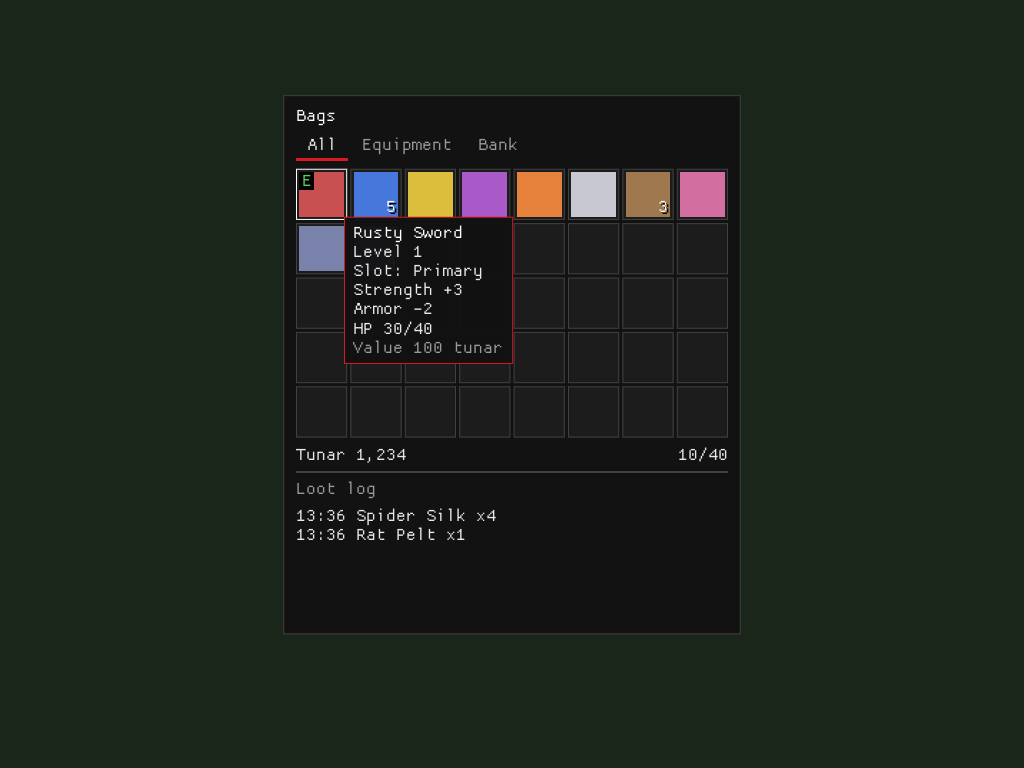
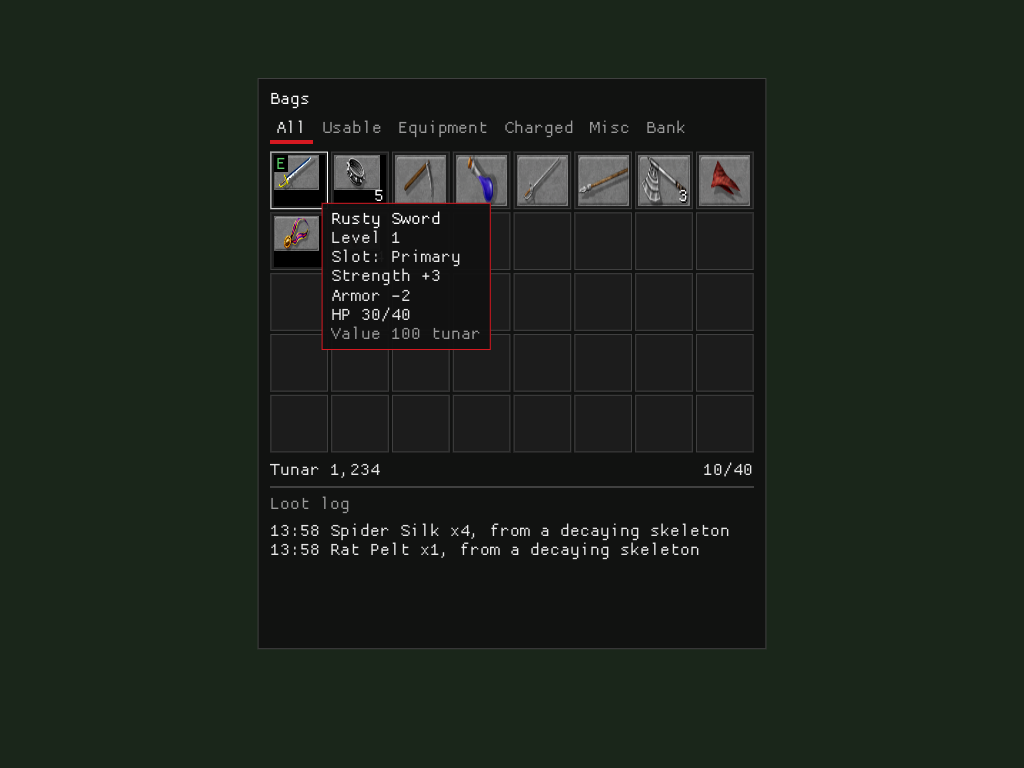
round 5 Part B: wider window and larger slots, real disc art test and captures, hashes

diff --git a/crates/eqoa/src/fork_ext/addons/bag_viewer_tests.rs b/crates/eqoa/src/fork_ext/addons/bag_viewer_tests.rs
@@ -227,10 +227,10 @@ impl Bv {
         let (rx, ry, _, _, k) = self.rect();
         (rx + x * k, ry + y * k)
     }
-    /// Centre of grid slot `n` (1-based) in window pixels (8 columns of 32 with a gap of 2, from (8, 46)).
+    /// Centre of grid slot `n` (1-based) in window pixels (8 columns of 36 with a gap of 2, from (8, 46)).
     fn slot(&self, n: usize) -> (f64, f64) {
         let (col, row) = ((n - 1) % 8, (n - 1) / 8);
-        self.at(8. + col as f64 * 34. + 16., 46. + row as f64 * 34. + 16.)
+        self.at(8. + col as f64 * 38. + 18., 46. + row as f64 * 38. + 18.)
     }
     fn point(&self, p: (f64, f64)) {
         super::super::pointer_api::position([p.0 as f32, p.1 as f32], true, self.win);
@@ -281,7 +281,7 @@ fn bv_red_near(pixels: &[u8], width: u32, p: (f64, f64), radius: i32) -> bool {
 fn bv_green_near(pixels: &[u8], width: u32, p: (f64, f64), radius: i32) -> bool {
     (-radius..=radius).any(|dy| (-radius..=radius).any(|dx| {
         let c = bv_px(pixels, width, p.0 + dx as f64, p.1 + dy as f64);
-        c[1] >= 150 && c[0] <= 130 && c[2] <= 140 && c[1] as i32 - c[0] as i32 >= 60
+        c[1] >= 90 && c[2] <= c[1] && c[1] as i32 - c[0] as i32 >= 40
     }))
 }
 fn bv_png(pixels: &[u8], size: (u32, u32), name: &str) {
@@ -539,10 +539,10 @@ fn round5b_the_window_follows_the_ui_scale_and_stays_on_screen() {
         sizes.push((win, w, k));
         bv.clean();
     }
-    // the window is as wide as the HUD frame makes it: 286 frame pixels at the frame's scale
+    // the window is as wide as the HUD frame makes it: 318 frame pixels at the frame's scale
     for (win, w, k) in &sizes {
         let (_, _, sx, _, _, _) = super::super::hud_layout::frame_metrics(*win);
-        assert!((k - sx as f64).abs() < 1e-3 && (w - 286. * sx as f64).abs() < 1e-2, "{win:?}");
+        assert!((k - sx as f64).abs() < 1e-3 && (w - 318. * sx as f64).abs() < 1e-2, "{win:?}");
     }
     assert!(sizes[1].1 > sizes[0].1 * 1.5, "a larger window gives a larger Bags window");
 }
@@ -563,7 +563,6 @@ fn round5b_picture_the_window_is_drawn_where_it_says_and_closed_it_is_not() {
     bv.point(bv.slot(1));
     let open = bv.frames(3);
     let px = rm_pixels(&bv.gpu, &open);
-    bv_png(&px, bv.win, "r5-bags-all.png");
     let w = bv.win.0;
     let (rx, ry, rw, rh, k) = bv.rect();
     // inside the panel (away from slots and text) the surface is dark and not the background; closed it is background
@@ -588,26 +587,24 @@ fn round5b_picture_the_window_is_drawn_where_it_says_and_closed_it_is_not() {
     bv.point((1., 1.));
     let calm = bv.frames(3);
     let calm_px = rm_pixels(&bv.gpu, &calm);
-    let left = bv.at(8., 46. + 16.);
+    let left = bv.at(8., 46. + 18.);
     assert!(bv_green_near(&calm_px, w, left, 3), "the worn marker's green at the sword's edge");
-    let ring = bv.at(8. + 68., 46. + 16.);
+    let ring = bv.at(8. + 76., 46. + 18.);
     assert!(!bv_green_near(&calm_px, w, ring, 1), "an unworn ring's edge is not green");
     let under = bv.at(8. + 14., 40.);
     assert!(bv_red_near(&calm_px, w, under, 2), "the All tab's red underline");
-    let log_row = bv.at(30., 46. + 5. * 34. + 5. + 38. + 6.);
+    let log_row = bv.at(30., 46. + 188. + 5. + 38. + 6.);
     assert!(bv_near(&calm_px, w, log_row, 40, [232, 232, 232, 255], 30), "a log line's text");
     // the Bank tab, nothing hovered
     let tab = bv.tab(6);
     bv.click(tab);
     bv.point((1., 1.));
-    let bank = bv.frames(3);
-    bv_png(&rm_pixels(&bv.gpu, &bank), bv.win, "r5-bags-bank.png");
+    bv.frames(3);
     // the log with entries, nothing hovered
     let all = bv.tab(1);
     bv.click(all);
     bv.point((1., 1.));
-    let log_pic = bv.frames(3);
-    bv_png(&rm_pixels(&bv.gpu, &log_pic), bv.win, "r5-bags-loot.png");
+    bv.frames(3);
     bv.clean();
 }
 
@@ -657,5 +654,91 @@ fn round5b_every_stack_has_the_tabs_the_games_item_page_gives_it_and_each_tab_li
     bv.click(tab);
     bv.frames(2);
     assert_eq!(bv.names(), all);
+    bv.clean();
+}
+
+/// The disc's own item art: the first decodable icons of ITEMICON.ESF, given to the live art cache the way the
+/// viewer gives it (`update_live_data`). None without `$EQOA_ISO`.
+fn bv_disc_icons(count: usize) -> Option<Vec<u32>> {
+    let path = std::env::var("EQOA_ISO").ok().filter(|p| !p.is_empty())?;
+    let mut disc = iso::Iso::open(&path).ok()?;
+    let container = esf::Container::open(disc.read("ITEMICON.ESF").ok()?).ok()?;
+    // icons with some picture in them, not a blank surface
+    let ids: Vec<u32> = container
+        .surfaces
+        .iter()
+        .filter_map(|s| {
+            let d = s.decode(&container.data)?;
+            let colours: std::collections::HashSet<[u8; 4]> = d.rgba.chunks(4).map(|p| [p[0], p[1], p[2], p[3]]).collect();
+            (colours.len() > 24).then_some(s.dict_id as u32)
+        })
+        .take(count)
+        .collect();
+    let mut lib = esf::Library::new();
+    lib.add("ITEMICON.ESF", container);
+    super::super::icons::update_live_data(&lib, None, &ids);
+    (ids.len() == count).then_some(ids)
+}
+
+#[test]
+fn round5b_captures_for_the_owner_draw_the_discs_own_item_art_and_the_corpse_in_the_log() {
+    let Some(mut bv) = Bv::new() else { return };
+    // the real art: no stand-in provider, the live cache the disc fills
+    super::super::icons::set_custom_icon_provider(None);
+    let Some(ids) = bv_disc_icons(12) else {
+        eprintln!("SKIP bag viewer captures: no $EQOA_ISO or no item art on it");
+        return;
+    };
+    let mut world = bv_world();
+    for (list, offset) in [("pack", 0), ("bank", 8)] {
+        for (i, item) in world[list].as_array_mut().unwrap().iter_mut().enumerate() {
+            item["icon"] = serde_json::json!(ids[offset + i]);
+        }
+    }
+    bv.play.bags_set(&world);
+    bv.enable();
+    bv.open();
+    let mut corpse = bv_corpse();
+    for (i, item) in corpse.as_array_mut().unwrap().iter_mut().enumerate() {
+        item["icon"] = serde_json::json!(ids[8 + i]);
+    }
+    bv.play.bags_target_corpse(5001, "a decaying skeleton");
+    bv.play.bags_corpse(&corpse);
+    bv.frames(2);
+    bv.play.bags_loot_one(0);
+    bv.frames(2);
+    bv.play.bags_loot_one(0);
+    bv.frames(2);
+    let (w, size) = (bv.win.0, bv.win);
+    // every slot of the pack has real art: a picture's many colours, not a flat square
+    for n in 1..=8 {
+        let c = bv.slot(n);
+        bv.point(c);
+        let t = bv.frames(2);
+        let px = rm_pixels(&bv.gpu, &t);
+        let mut colours = std::collections::HashSet::new();
+        for dy in -10..=10 {
+            for dx in -10..=10 {
+                colours.insert(bv_px(&px, w, c.0 + dx as f64, c.1 + dy as f64));
+            }
+        }
+        assert!(colours.len() > 6, "slot {n} shows the disc's art: {} colours", colours.len());
+        if n == 1 {
+            bv_png(&px, size, "r5-bags-all.png");
+        }
+    }
+    let log = bv.log();
+    assert!(log[0].ends_with("Spider Silk x4, from a decaying skeleton"), "{log:?}");
+    bv.point((1., 1.));
+    let tab = bv.tab(6);
+    bv.click(tab);
+    bv.point((1., 1.));
+    let t = bv.frames(3);
+    bv_png(&rm_pixels(&bv.gpu, &t), size, "r5-bags-bank.png");
+    let all = bv.tab(1);
+    bv.click(all);
+    bv.point((1., 1.));
+    let t = bv.frames(3);
+    bv_png(&rm_pixels(&bv.gpu, &t), size, "r5-bags-loot.png");
     bv.clean();
 }
